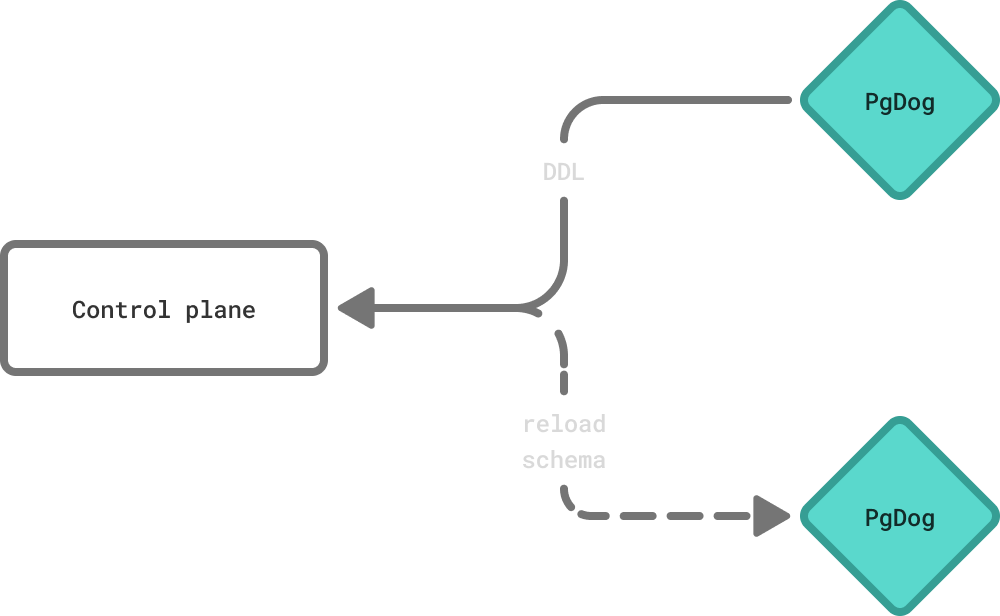
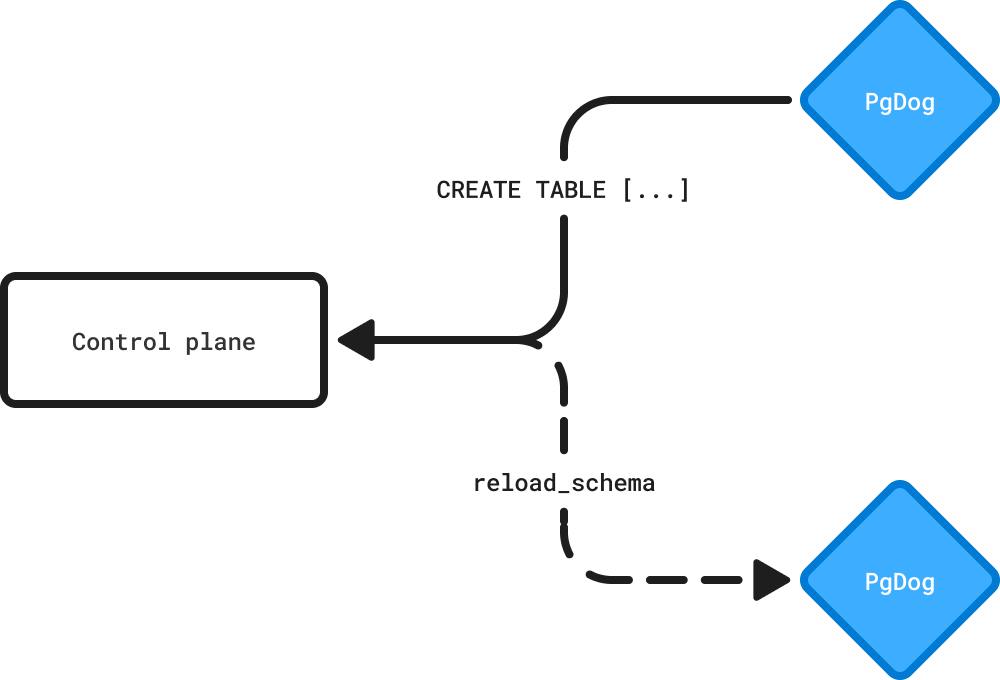
feat: fix image in ee and move content around  (#97)

Pull request: feat: fix image in ee and move content around

diff --git a/tests/test_code_blocks.py b/tests/test_code_blocks.py
@@ -23,6 +23,7 @@ replication = [
 
 def verify(binary):
     for file in glob.glob("docs/**/*.md", recursive=True):
+        skip_toml = file.startswith("docs/enterprise_edition/control_plane/")
         with open(file, "r") as f:
             content = f.read()
         print(f"Checking {file}")
@@ -42,6 +43,8 @@ def verify(binary):
                 code = "".join(stripped_lines)
 
             if info == "toml":
+                if skip_toml:
+                    continue
                 if "[[users]]" in code:
                     check_file(binary, "users", code)
                 elif "[lib]" in code:

diff --git a/docs/enterprise_edition/control_plane/installation.md b/docs/enterprise_edition/control_plane/installation.md
@@ -94,9 +94,11 @@ ingress:
 
 ## OAuth2
 
-OAuth2 authentication is supported out of the box for GitHub and Google providers. Either one can be configured as follows:
+OAuth2 authentication is supported out of the box for GitHub and Google providers.
 
-=== "GitHub"
+### GitHub
+
+=== "Helm chart"
     ```yaml title="values.yaml"
     control:
       config:
@@ -108,7 +110,20 @@ OAuth2 authentication is supported out of the box for GitHub and Google provider
             allowed_orgs:
               - acme-corp
     ```
-=== "Google"
+=== "control.toml"
+    ```toml
+    [auth]
+    redirect_base_url = "https://control.acme.com"
+
+    [auth.github]
+    client_id = "Iv1.0123456789abcdef"
+    client_secret = "shhh"
+    allowed_orgs = ["acme-corp"]
+    ```
+
+### Google
+
+=== "Helm chart"
     ```yaml title="values.yaml"
     control:
       config:
@@ -119,6 +134,16 @@ OAuth2 authentication is supported out of the box for GitHub and Google provider
             client_secret: shhh
             allowed_domains:
               - acme.com
+    ```
+=== "control.toml"
+    ```toml
+    [auth]
+    redirect_base_url = "https://control.acme.com"
+
+    [auth.google]
+    client_id = "0123456789-abc.apps.googleusercontent.com"
+    client_secret = "shhh"
+    allowed_domains = ["acme.com"]
     ```
 
 The client secret can be alternatively set as an environment variable:
@@ -151,25 +176,48 @@ The `Secret` resource should be in the same namespace as the chart release:
 
 The secret can then be referenced in `values.yaml`:
 
-=== "GitHub"
+#### GitHub
+
+=== "Helm chart"
     ```yaml title="values.yaml"
-    github:
-      client_id: Iv1.0123456789abcdef
-      allowed_orgs:
-        - acme-corp
-      secret:
-        name: pgdog-oauth-secrets
-        clientSecretKey: github-client-secret
+    control:
+      config:
+        auth:
+          github:
+            client_id: Iv1.0123456789abcdef
+            allowed_orgs:
+              - acme-corp
+            secret:
+              name: pgdog-oauth-secrets
+              clientSecretKey: github-client-secret
     ```
-=== "Google"
+=== "control.toml"
+    ```toml
+    [auth.github]
+    client_id = "Iv1.0123456789abcdef"
+    allowed_orgs = ["acme-corp"]
+    ```
+
+#### Google
+
+=== "Helm chart"
     ```yaml title="values.yaml"
-    google:
-      client_id: 0123456789-abc.apps.googleusercontent.com
-      allowed_domains:
-        - acme.com
-      secret:
-        name: pgdog-oauth-secrets
-        clientSecretKey: google-client-secret
+    control:
+      config:
+        auth:
+          google:
+            client_id: 0123456789-abc.apps.googleusercontent.com
+            allowed_domains:
+              - acme.com
+            secret:
+              name: pgdog-oauth-secrets
+              clientSecretKey: google-client-secret
+    ```
+=== "control.toml"
+    ```toml
+    [auth.google]
+    client_id = "0123456789-abc.apps.googleusercontent.com"
+    allowed_domains = ["acme.com"]
     ```
 
 The same method can be used to store the `client_id` (using `clientIdKey` as key).
@@ -180,17 +228,38 @@ The same method can be used to store the `client_id` (using `clientIdKey` as key
 
 Both accept a list, so you can allow more than one:
 
-=== "GitHub"
+#### GitHub
+
+=== "Helm chart"
     ```yaml title="values.yaml"
-    github:
-      allowed_orgs:
-        - acme-corp
-        - acme-labs
+    control:
+      config:
+        auth:
+          github:
+            allowed_orgs:
+              - acme-corp
+              - acme-labs
     ```
-=== "Google"
+=== "control.toml"
+    ```toml
+    [auth.github]
+    allowed_orgs = ["acme-corp", "acme-labs"]
+    ```
+
+#### Google
+
+=== "Helm chart"
     ```yaml title="values.yaml"
-    google:
-      allowed_domains:
-        - acme.com
-        - acme.io
+    control:
+      config:
+        auth:
+          google:
+            allowed_domains:
+              - acme.com
+              - acme.io
+    ```
+=== "control.toml"
+    ```toml
+    [auth.google]
+    allowed_domains = ["acme.com", "acme.io"]
     ```

diff --git a/docs/enterprise_edition/control_plane/ha.md b/docs/enterprise_edition/control_plane/ha.md
@@ -26,16 +26,26 @@ Whichever instance acquires the lease first will report itself as `"Ready"` to t
 
 This feature is **disabled** by default. It can be enabled and configured in the Helm chart:
 
-```yaml title="values.yaml"
-control:
-  config:
-    leader:
-      enabled: true
-      lease_name: "control2"
-      lease_duration_secs: 15
-      lease_interval_secs: 5
-      release_timeout_secs: 5
-```
+=== "Helm chart"
+    ```yaml title="values.yaml"
+    control:
+      config:
+        leader:
+          enabled: true
+          lease_name: "control2"
+          lease_duration_secs: 15
+          renew_interval_secs: 5
+          release_timeout_secs: 5
+    ```
+=== "control.toml"
+    ```toml
+    [leader]
+    enabled = true
+    lease_name = "control2"
+    lease_duration_secs = 15
+    renew_interval_secs = 5
+    release_timeout_secs = 5
+    ```
 
 Most of these settings have sane defaults:
 
@@ -44,7 +54,7 @@ Most of these settings have sane defaults:
 | `enabled` | Toggle leader election on or off. It is disabled by default (`false`). |
 | `lease_name` | The name of the `Lease` resource. Change it if you're planning to deploy more than one control plane per namespace. |
 | `lease_duration_secs` | Lease duration. Longer values prevent lease takeover due to clock skew, but slow down redeployments after unexpected pod termination. |
-| `lease_interval_secs` | How often the control plane leader attempts to renew the lease. |
+| `renew_interval_secs` | How often the control plane leader attempts to renew the lease. |
 | `release_timeout_secs` | How long the control plane will wait while shutting down gracefully for the lease to be released. |
 
 ### Default deployment

diff --git a/docs/enterprise_edition/control_plane/index.md b/docs/enterprise_edition/control_plane/index.md
@@ -45,17 +45,18 @@ PgDog nodes that are part of the same deployment should use the same token. It c
     A control plane deployment is capable of managing several PgDog deployments. It's not necessary (although possible) to have one control plane per PgDog deployment.
 
 
-### Connection flow
+## Architecture
 
 <center>
-    <img src="/images/control_plane.png" width="65%" alt="Control plane">
+    <img src="/images/control_plane.png" width="65%" alt="Control plane" class="theme-aware-image">
+    <p>Control plane <-> PgDog connection architecture</p>
 </center>
 
 PgDog initiates a connection to the control plane on startup. This happens in the background and doesn't block queries.
 
 Upon connecting, PgDog will send its node identifier (set in the `NODE_ID` environment variable, or randomly generated) to register with the control plane, and will start uploading telemetry and poll for commands.
 
-#### Error handling
+### Error handling
 
 Since most PgDog functions (including sharding) are configuration-driven, the control plane connection is **not required**
 for PgDog to start or serve queries.
@@ -78,5 +79,5 @@ PgDog transmits the following information to the control plane:
 
 {{ next_steps_links([
     ("Installation", "installation.md", "Deploy the control plane alongside your PgDog nodes and connect them together."),
-    ("Features", "features/index.md", "Explore control plane features like alerts, configuration management, instances, metrics, and Slack integration."),
+    ("Features", "alerts.md", "Explore control plane features like alerts, configuration management, instances, metrics, and Slack integration."),
 ]) }}

diff --git a/docs/enterprise_edition/schema.md b/docs/enterprise_edition/schema.md
@@ -13,7 +13,7 @@ The open source edition supports refreshing the schema for single-node deploymen
 When a client executes a DDL command, e.g. `CREATE TABLE`, PgDog will send a notification to the [control plane](control_plane/index.md). The control plane will then trigger a schema reload across all registered PgDog nodes.
 
 <center>
-    <img src="/images/ee/reload_schema.png" width="70%" alt="Reload schema">
+    <img src="/images/ee/reload_schema.png" width="70%" alt="Reload schema" class="theme-aware-image">
 </center>
 
 This process takes place in the background, so the schema snapshot across nodes is eventually consistent. This is sufficient for most applications, since migrations run as a separate process and application traffic doesn't use new tables for a considerable amount of time after the schema is changed. This gives PgDog ample time to refresh its schema snapshot.